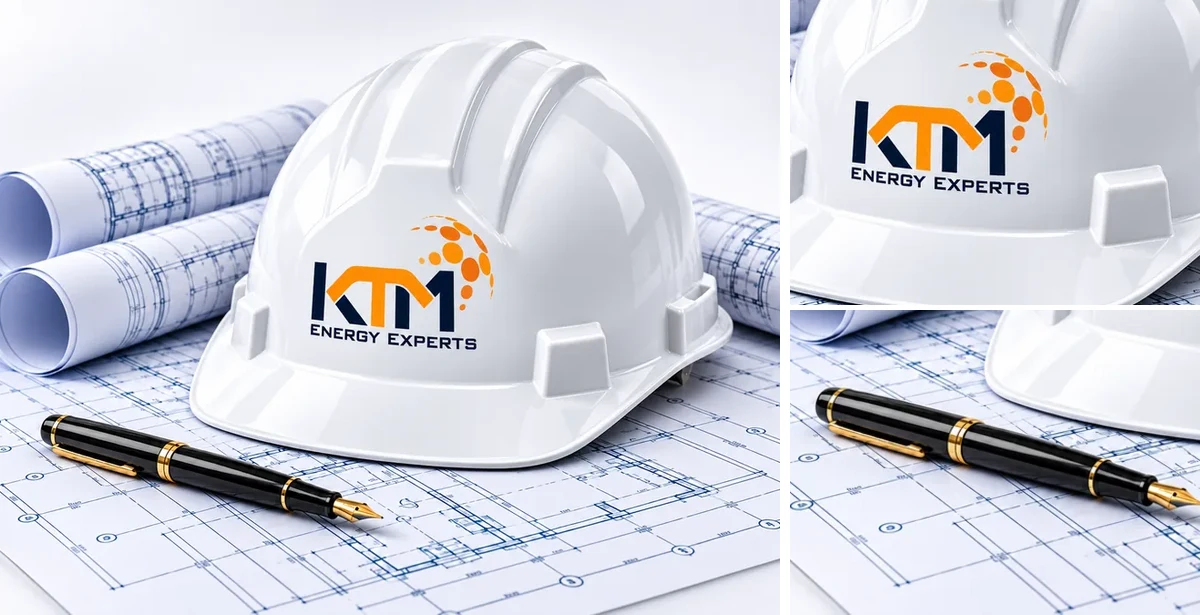
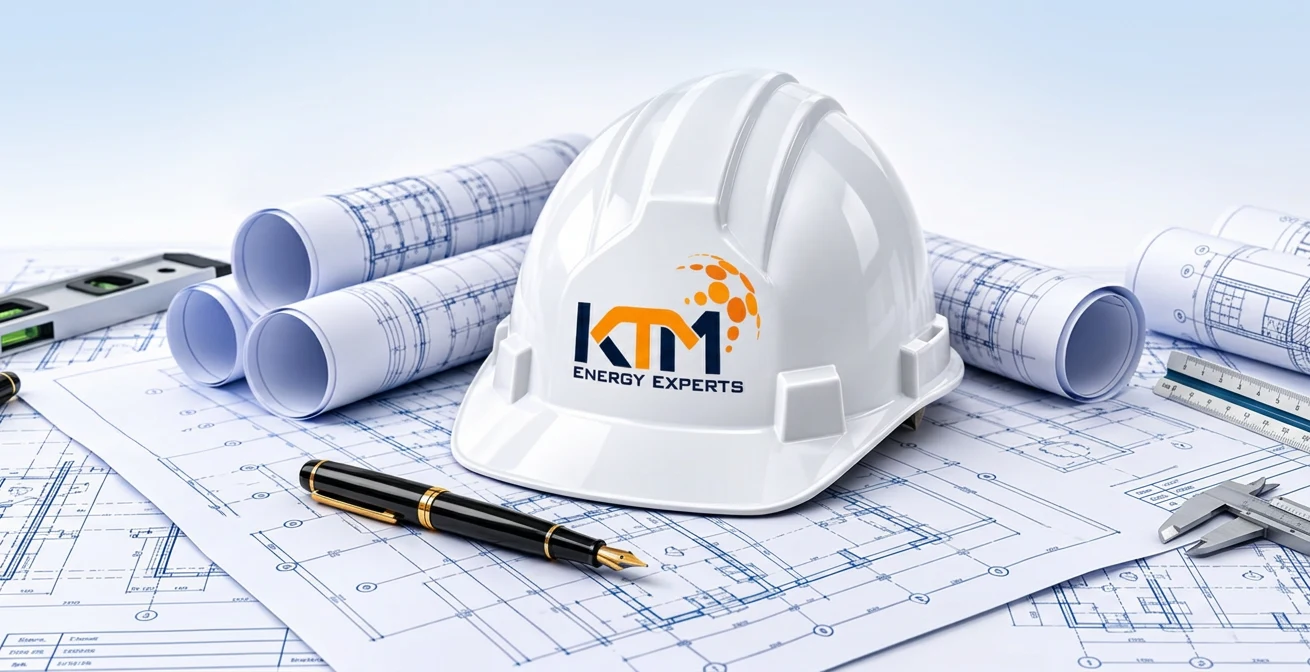
Card 04: one wide photograph instead of a collage
The previous wide derivative was three panels side by side. The card wants a
single picture, so the studio shot itself was extended horizontally into a
continuous 1310x672 frame: same helmet and logo, same blueprints, same pen and
sheet, with a level, ruler and caliper carrying the scene to either edge.

Its ratio matches the tile's 1.949, so cover crops nothing - 99.7% of the picture
survives - and the card stays 718x166 with a 230x118 tile, exactly as before.

diff --git a/docs/HANDOFF.md b/docs/HANDOFF.md
@@ -560,3 +560,16 @@ the scope guard flags and which needs owner approval).
 
   Lesson worth more than the pixel work: **when the owner says the size is wrong, the size is wrong.**
   Three commits were spent moving a box that was never the problem.
+
+  **Fourth correction: one photograph, not a collage.** The first wide derivative was a three-panel
+  composition (scene + logo close-up + pen close-up), which is not what the card is - the owner wants a
+  single picture there. So the picture itself was widened instead: the studio shot was extended
+  horizontally into a continuous 1310x672 photograph (same helmet with the KTM logo, same rolled
+  blueprints, same pen, same sheet, plus a level, ruler and caliper extending naturally to either side).
+
+  Its ratio is 1.949 against the tile's 1.949, so `cover` crops **nothing** - measured at 99.7% of the
+  picture surviving. Card 04 is `718x166` with a `230x118` tile, exactly as it always was.
+
+  The rule from the previous correction still stands and is the reason this worked: **the card's size is
+  fixed by the sheet; the picture adapts to it.** Widening the artwork is the only change that satisfies
+  both the size and "show the whole thing".
